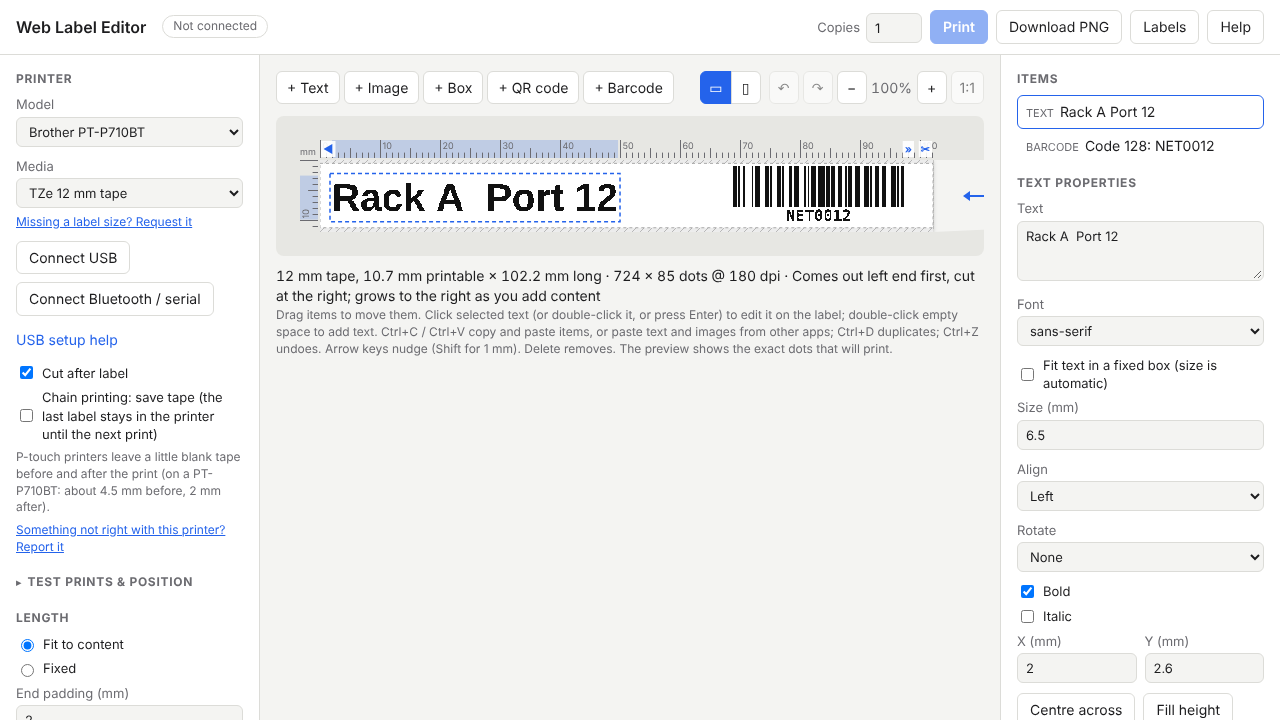
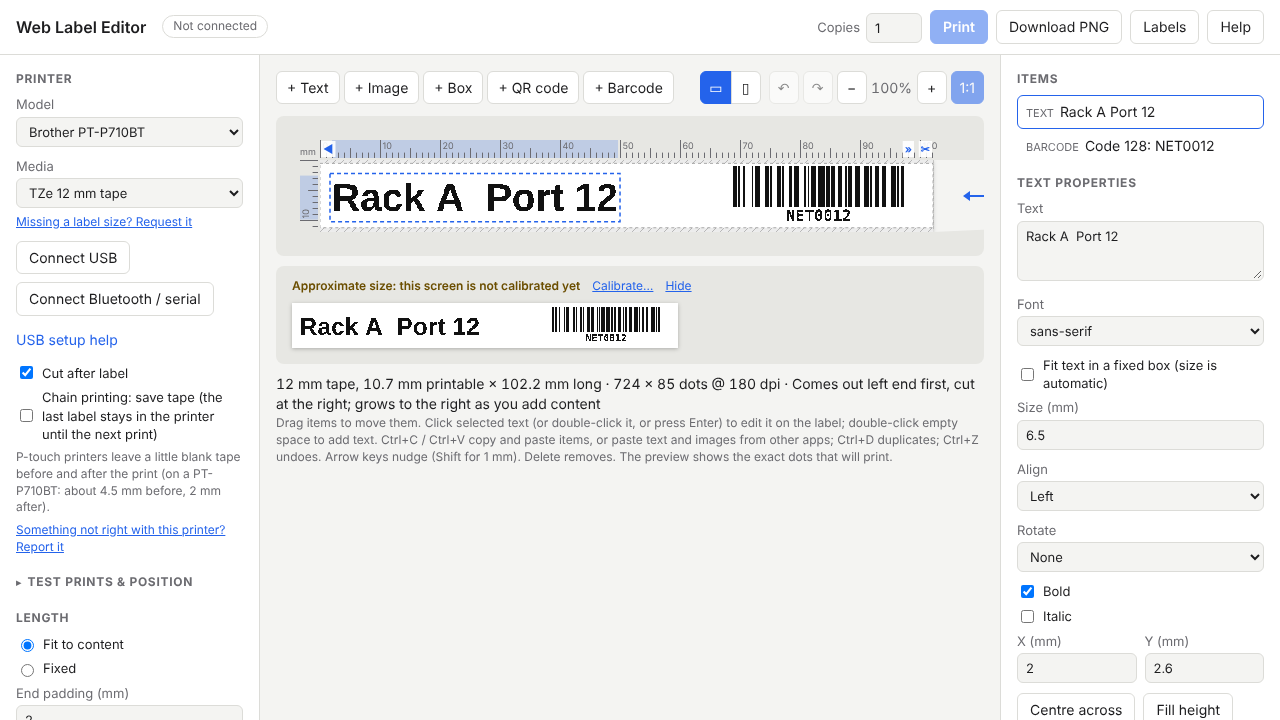
Actual-size panel on by default, as an estimate until calibrated
- The actual-size panel shows by default; before the screen is
  calibrated it uses the browser's nominal millimetre (96 px per inch) and
  says it is approximate, with a Calibrate… link. 1:1 or Hide turns it off,
  and that choice is remembered.
- A label too long for the panel no longer takes over the editor by
  default; that only happens when 1:1 was pressed.
- Screenshots regenerated: they now show the panel.

Claude-Session: https://claude.ai/code/session_01YQFkThD3TEfZZoGyfdA6sY

Changed region(s): [[0.2188, 0.3667, 0.75, 0.4889], [0.2188, 0.5194, 0.75, 0.6417], [0.7188, 0.0917, 0.7812, 0.1528]]

diff --git a/src/app.js b/src/app.js
@@ -15,7 +15,7 @@ import {
 } from './layout.js';
 import { newRollId, rollCode, parseRollCode } from './rolls.js';
 import { UndoHistory } from './undo.js';
-import { actualPxPerMm, openScreenCalibration } from './screen.js';
+import { actualPxPerMm, openScreenCalibration, ESTIMATED_PX_PER_MM } from './screen.js';
 
 const STORAGE_KEY = 'web-label-editor:design';
 const $ = (id) => document.getElementById(id);
@@ -98,8 +98,20 @@ let editZoom = 6; // the zoom chosen with − / +
 // Showing the label at its real size (the screen calibration): in a panel
 // under the editor when it fits across the window, otherwise the editor
 // itself switches to real size.
-let actualSize = false;
+// On by default (an estimate until the screen is calibrated); hiding it is
+// remembered. The editor itself only switches to real size when 1:1 was
+// pressed, not by default.
+const ACTUAL_KEY = 'web-label-editor:actual';
+let actualSize = (() => {
+  try { return localStorage.getItem(ACTUAL_KEY) !== 'off'; } catch { return true; }
+})();
+let actualChosen = false;
 let actualPanel = false;
+function setActualSize(on) {
+  actualSize = on;
+  actualChosen = true;
+  try { localStorage.setItem(ACTUAL_KEY, on ? 'on' : 'off'); } catch { /* storage unavailable */ }
+}
 // Where the label starts on the editor canvas, CSS px (past the roll stub).
 let viewOrigin = { x: 0, y: 0 };
 let transport = null;
@@ -402,9 +414,11 @@ function draw() {
   const { display, dpmm, geo, slots, toDisplay } = last;
 
   const canvas = $('canvas');
-  const real = actualSize ? actualPxPerMm() : null;
+  const real = actualSize ? (actualPxPerMm() ?? ESTIMATED_PX_PER_MM) : null;
   actualPanel = !!real && (display.width / dpmm) * real <= $('canvas-wrap').clientWidth - 64;
-  zoom = real && !actualPanel ? real : editZoom;
+  // Too long for the panel: the editor goes to real size only when asked.
+  const takeOver = !!real && !actualPanel && actualChosen;
+  zoom = takeOver ? real : editZoom;
   drawActualPanel(actualPanel ? real : null);
   const scale = zoom / dpmm; // screen px per dot
   const cssW = display.width * scale;
@@ -569,7 +583,7 @@ function draw() {
     + (last.hidden ? `  ·  ${last.hidden} item${last.hidden > 1 ? 's' : ''} on the other label${lanes?.count > 2 ? 's' : ''} hidden (choose "A different design on each")` : '')
     + `  ·  ${feedNote}`;
   dims.classList.toggle('warn', offLabel);
-  $('zoom-label').textContent = actualSize && !actualPanel ? '1:1' : `${Math.round((zoom / 6) * 100)}%`;
+  $('zoom-label').textContent = takeOver ? '1:1' : `${Math.round((zoom / 6) * 100)}%`;
   updateActualButton();
   updateCodeInfo();
   updateFitInfo();
@@ -2139,9 +2153,15 @@ function drawActualPanel(real) {
   ctx.drawImage(bitmapToCanvas(display, colors.ink, colors.paper), 0, 0, w, h);
   const plain = last.slots.length === 1 && !last.geo.top && !last.geo.bottom && !last.geo.right;
   c.style.borderRadius = plain && medium().cornerMm ? `${medium().cornerMm * real}px` : '0';
+  const calibrated = !!actualPxPerMm();
+  const title = $('actual-title');
+  title.textContent = calibrated ? 'Actual size' : 'Approximate size: this screen is not calibrated yet';
+  title.className = calibrated ? '' : 'estimate';
+  $('btn-recalibrate').textContent = calibrated ? 'Recalibrate…' : 'Calibrate…';
 }
 
-// The 1:1 button: dimmed until the screen is calibrated, pressed while on.
+// The 1:1 button: pressed while the actual-size view is on; dimmed while
+// that size is only an estimate.
 function updateActualButton() {
   const b = $('zoom-actual');
   const ready = !!actualPxPerMm();
@@ -2149,7 +2169,7 @@ function updateActualButton() {
   b.setAttribute('aria-pressed', String(actualSize));
   b.title = ready
     ? 'Actual size: the label at its real size on this screen (right-click to recalibrate)'
-    : 'Actual size: calibrate this screen first (a bank card or a ruler against the screen)';
+    : 'Actual size (approximate until you calibrate this screen with a bank card or a ruler; right-click to calibrate)';
 }
 
 // ---------- undo ----------
@@ -2249,24 +2269,21 @@ function wire() {
   // itself was at real size, zooming leaves real size.
   const zoomBy = (f) => {
     stopEdit();
-    if (actualSize && !actualPanel) actualSize = false;
+    if (actualSize && !actualPanel && actualChosen) setActualSize(false);
     editZoom = Math.min(30, Math.max(1, editZoom * f));
     refresh();
   };
   $('zoom-in').onclick = () => zoomBy(1.25);
   $('zoom-out').onclick = () => zoomBy(1 / 1.25);
-  // Actual size needs the screen calibrated first; until then the button
-  // opens the calibration.
+  // 1:1 shows or hides the actual-size view (an estimate until the screen
+  // is calibrated); calibrating from the panel or a right-click.
   const calibrate = () => openScreenCalibration($('screen-dialog'), {
-    onDone: (ok) => { actualSize = ok; refresh(); },
+    onDone: (ok) => { if (ok) setActualSize(true); refresh(); },
   });
-  $('zoom-actual').onclick = () => {
-    stopEdit();
-    if (!actualPxPerMm()) calibrate();
-    else { actualSize = !actualSize; refresh(); }
-  };
+  $('zoom-actual').onclick = () => { stopEdit(); setActualSize(!actualSize); refresh(); };
   $('zoom-actual').oncontextmenu = (e) => { e.preventDefault(); calibrate(); };
   $('btn-recalibrate').onclick = calibrate;
+  $('btn-hide-actual').onclick = () => { setActualSize(false); refresh(); };
   // Browser zoom or a move to another screen changes devicePixelRatio.
   window.addEventListener('resize', () => { if (actualSize) refresh(); });
 

diff --git a/src/about.js b/src/about.js
@@ -98,9 +98,8 @@ function tips() {
         + 'die cut may trim them.'),
       li(b('Portrait'), ' (▭ ▯ in the toolbar) lets you design the label standing upright; it is turned for printing. '
         + 'On tape it grows downwards with the content.'),
-      li(b('1:1'), ' shows the label at its real size under the editor (or in the editor, when it is too long to fit), '
-        + 'once you have calibrated your screen with a bank card or a ruler: the button asks the first time; Recalibrate… '
-        + 'in the panel (or right-click 1:1) changes it.'),
+      li(b('Actual size'), ': the panel under the editor shows the label at its real size; until you calibrate your '
+        + 'screen (Calibrate…, with a bank card or a ruler) it is an estimate. 1:1 or Hide turns it off.'),
       li(b('The faded stub'), ' past one end of the label is the rest of the roll, still in the printer; its arrow shows '
         + 'which way the label moves out.'),
       li(b('Ruler marks'), ': the arrow is the end that comes out of the printer first, ✂ where it is cut, » where a '

diff --git a/style.css b/style.css
@@ -217,7 +217,8 @@ dialog.screen .row input[type="range"] { flex: 1; }
 #zoom-actual.unset { opacity: .55; }
 /* The label at its real size, under the editor. */
 .actual-wrap { margin: 10px 0 0; padding: 12px 16px 16px; background: var(--stage); border-radius: 8px; overflow: auto; }
-.actual-wrap figcaption { font-size: 12px; color: var(--muted); margin-bottom: 8px; display: flex; gap: 12px; align-items: baseline; }
+.actual-wrap figcaption { font-size: 12px; color: var(--muted); margin-bottom: 8px; display: flex; gap: 12px; align-items: baseline; flex-wrap: wrap; }
+.actual-wrap figcaption .estimate { color: var(--warn-text); font-weight: 600; }
 #actual-canvas { display: block; box-shadow: 0 1px 4px rgba(0, 0, 0, .25); }
 #zoom-actual[aria-pressed="true"] { background: var(--accent); color: var(--accent-text); border-color: var(--accent); }
 

diff --git a/index.html b/index.html
@@ -125,7 +125,9 @@
         <div id="lane-buttons"></div>
       </div>
       <figure id="actual-wrap" class="actual-wrap" hidden>
-        <figcaption>Actual size <button id="btn-recalibrate" type="button" class="linklike">Recalibrate…</button></figcaption>
+        <figcaption><span id="actual-title">Actual size</span>
+          <button id="btn-recalibrate" type="button" class="linklike">Recalibrate…</button>
+          <button id="btn-hide-actual" type="button" class="linklike">Hide</button></figcaption>
         <canvas id="actual-canvas" aria-label="The label at its real size"></canvas>
       </figure>
       <p id="dims" class="dims"></p>

diff --git a/src/screen.js b/src/screen.js
@@ -26,6 +26,11 @@ function saveScreen(devicePxPerMm) {
   } catch { /* storage unavailable */ }
 }
 
+// The browser's nominal millimetre (CSS defines 96 px per inch): the best
+// guess at real size before the screen is calibrated. Often off by a
+// quarter or more, depending on the screen.
+export const ESTIMATED_PX_PER_MM = 96 / 25.4;
+
 // CSS px per real mm on this screen at the current browser zoom, or null.
 export function actualPxPerMm() {
   const s = loadScreen();

diff --git a/README.md b/README.md
@@ -373,17 +373,14 @@ take a few seconds to send.
   on a dimmed copy switches to a design per label, starting from a copy of
   the first; **🔗 Same as label 1** links it back (its own items are kept,
   hidden, until you unlink again).
-- **Actual size (1:1):** after a one-time screen calibration (match an
-  outline to a bank card or a ruler held against the screen), the 1:1
-  button shows the label at its real size in a panel under the editor, so
-  you can keep editing at any zoom and hold the label or the thing it goes
-  on up to the screen. When the real-size label is too long to fit across
-  the window, the editor itself switches to real size instead. Saved per browser; it follows browser
-  zoom, but a different monitor needs its own calibration (*Recalibrate…*
-  in the panel, or right-click 1:1).
-- **Rulers** along the top and side of the preview measure in mm from the
-  label's starting edge and from each label's top edge, and mark the
-  selected item.
+- **Actual size:** a panel under the editor shows the label at its real
+  size, so you can hold the label or the thing it goes on up to the screen
+  while editing at any zoom. Until the screen is calibrated it is an
+  estimate (the browser's nominal millimetre) and says so; *Calibrate…*
+  matches an outline to a bank card or a ruler held against the screen.
+  The calibration follows browser zoom; a different monitor needs its own.
+  1:1 or *Hide* turns the panel off (remembered); when a label is too long
+  for the panel, pressing 1:1 shows it at real size in the editor itself.
 - **The roll:** a short faded stub past the label's trailing end shows the
   rest of the roll still in the printer (the gap and the next label, or the
   tape running on), with a torn edge and an arrow the way the label moves
